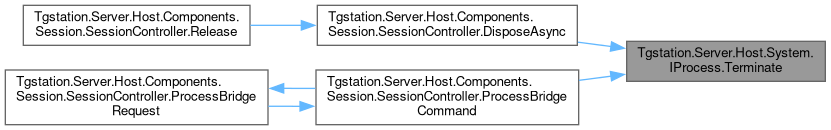
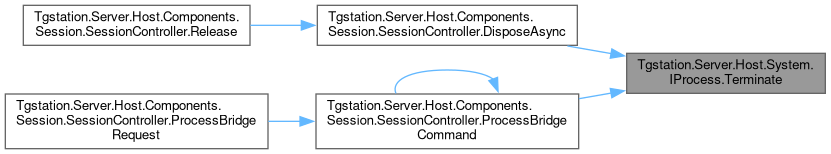
Deploy code docs to GitHub Pages for workflow run 1468
Commit: 633b628f2d9bcbed152a3bc0d39a2a22a090d2c9

diff --git a/class_tgstation_1_1_server_1_1_host_1_1_components_1_1_session_1_1_session_controller.html b/class_tgstation_1_1_server_1_1_host_1_1_components_1_1_session_1_1_session_controller.html
@@ -786,9 +786,9 @@ Here is the caller graph for this function:</div>
 <div class="dyncontent">
 <div class="center"><img src="class_tgstation_1_1_server_1_1_host_1_1_components_1_1_session_1_1_session_controller_a610c434225f1b0c912e2d845e0429eb5_icgraph.png" border="0" usemap="#aclass_tgstation_1_1_server_1_1_host_1_1_components_1_1_session_1_1_session_controller_a610c434225f1b0c912e2d845e0429eb5_icgraph" alt=""/></div>
 <map name="aclass_tgstation_1_1_server_1_1_host_1_1_components_1_1_session_1_1_session_controller_a610c434225f1b0c912e2d845e0429eb5_icgraph" id="aclass_tgstation_1_1_server_1_1_host_1_1_components_1_1_session_1_1_session_controller_a610c434225f1b0c912e2d845e0429eb5_icgraph">
-<area shape="rect" title="Log and return a BridgeResponse for a given message ." alt="" coords="627,13,868,53"/>
-<area shape="rect" href="class_tgstation_1_1_server_1_1_host_1_1_components_1_1_session_1_1_session_controller.html#a6b89533592ce90d8668f11936e8096d5" title="Handle a set of bridge parameters ." alt="" coords="316,5,579,60"/>
-<area shape="rect" href="class_tgstation_1_1_server_1_1_host_1_1_components_1_1_session_1_1_session_controller.html#a96817aa0735ddf0a72782b5f38b22cce" title="Handle a set of bridge parameters . A Task&lt;TResult&gt; resulting in the BridgeResponse for the request o..." alt="" coords="5,5,268,60"/>
+<area shape="rect" title="Log and return a BridgeResponse for a given message ." alt="" coords="627,37,868,77"/>
+<area shape="rect" href="class_tgstation_1_1_server_1_1_host_1_1_components_1_1_session_1_1_session_controller.html#a6b89533592ce90d8668f11936e8096d5" title="Handle a set of bridge parameters ." alt="" coords="316,29,579,84"/>
+<area shape="rect" href="class_tgstation_1_1_server_1_1_host_1_1_components_1_1_session_1_1_session_controller.html#a96817aa0735ddf0a72782b5f38b22cce" title="Handle a set of bridge parameters . A Task&lt;TResult&gt; resulting in the BridgeResponse for the request o..." alt="" coords="5,29,268,84"/>
 </map>
 </div>
 
@@ -1430,7 +1430,7 @@ Here is the call graph for this function:</div>
 <div class="line"><span class="lineno">  711</span>                    oldRebootTcs.SetResult();</div>
 <div class="line"><span class="lineno">  712</span>                    <span class="keywordflow">break</span>;</div>
 <div class="line"><span class="lineno">  713</span>                <span class="keywordflow">case</span> <a class="code hl_enumeration" href="namespace_tgstation_1_1_server_1_1_host_1_1_components_1_1_interop_1_1_bridge.html#a50ede689312259c6ba4fe6595f8ad91d">BridgeCommandType</a>.Chunk:</div>
-<div class="line"><span class="lineno">  714</span>                    <span class="keywordflow">return</span> await ProcessChunk&lt;BridgeParameters, BridgeResponse&gt;(<a class="code hl_function" href="class_tgstation_1_1_server_1_1_host_1_1_components_1_1_session_1_1_session_controller.html#a96817aa0735ddf0a72782b5f38b22cce">ProcessBridgeRequest</a>, <a class="code hl_function" href="class_tgstation_1_1_server_1_1_host_1_1_components_1_1_session_1_1_session_controller.html#a610c434225f1b0c912e2d845e0429eb5">BridgeError</a>, parameters.<a class="code hl_property" href="class_tgstation_1_1_server_1_1_host_1_1_components_1_1_interop_1_1_bridge_1_1_bridge_parameters.html#aa186cdd5ed50c89c0507028e53804e14">Chunk</a>, cancellationToken);</div>
+<div class="line"><span class="lineno">  714</span>                    <span class="keywordflow">return</span> await ProcessChunk&lt;BridgeParameters, BridgeResponse&gt;(<a class="code hl_function" href="class_tgstation_1_1_server_1_1_host_1_1_components_1_1_session_1_1_session_controller.html#a6b89533592ce90d8668f11936e8096d5">ProcessBridgeCommand</a>, <a class="code hl_function" href="class_tgstation_1_1_server_1_1_host_1_1_components_1_1_session_1_1_session_controller.html#a610c434225f1b0c912e2d845e0429eb5">BridgeError</a>, parameters.<a class="code hl_property" href="class_tgstation_1_1_server_1_1_host_1_1_components_1_1_interop_1_1_bridge_1_1_bridge_parameters.html#aa186cdd5ed50c89c0507028e53804e14">Chunk</a>, cancellationToken);</div>
 <div class="line"><span class="lineno">  715</span>                <span class="keywordflow">case</span> <span class="keyword">null</span>:</div>
 <div class="line"><span class="lineno">  716</span>                    <span class="keywordflow">return</span> <a class="code hl_function" href="class_tgstation_1_1_server_1_1_host_1_1_components_1_1_session_1_1_session_controller.html#a610c434225f1b0c912e2d845e0429eb5">BridgeError</a>(<span class="stringliteral">&quot;Missing commandType!&quot;</span>);</div>
 <div class="line"><span class="lineno">  717</span>                <span class="keywordflow">default</span>:</div>
@@ -1457,8 +1457,8 @@ Here is the call graph for this function:</div>
 <div class="ttc" id="aclass_tgstation_1_1_server_1_1_host_1_1_components_1_1_interop_1_1_message_content_html_afc1d8f1a06bc8ce61a1d86b168ee123f"><div class="ttname"><a href="class_tgstation_1_1_server_1_1_host_1_1_components_1_1_interop_1_1_message_content.html#afc1d8f1a06bc8ce61a1d86b168ee123f">Tgstation.Server.Host.Components.Interop.MessageContent.Text</a></div><div class="ttdeci">string Text</div><div class="ttdoc">The message string.</div><div class="ttdef"><b>Definition:</b> <a href="_message_content_8cs_source.html#l00011">MessageContent.cs:11</a></div></div>
 <div class="ttc" id="aclass_tgstation_1_1_server_1_1_host_1_1_components_1_1_session_1_1_session_controller_html_a253ee7e74591b02552eb4337c1b7fc5e"><div class="ttname"><a href="class_tgstation_1_1_server_1_1_host_1_1_components_1_1_session_1_1_session_controller.html#a253ee7e74591b02552eb4337c1b7fc5e">Tgstation.Server.Host.Components.Session.SessionController.TerminationWasRequested</a></div><div class="ttdeci">bool TerminationWasRequested</div><div class="ttdoc">If the DreamDaemon instance sent a.</div><div class="ttdef"><b>Definition:</b> <a href="_session_controller_8cs_source.html#l00058">SessionController.cs:58</a></div></div>
 <div class="ttc" id="aclass_tgstation_1_1_server_1_1_host_1_1_components_1_1_session_1_1_session_controller_html_a610c434225f1b0c912e2d845e0429eb5"><div class="ttname"><a href="class_tgstation_1_1_server_1_1_host_1_1_components_1_1_session_1_1_session_controller.html#a610c434225f1b0c912e2d845e0429eb5">Tgstation.Server.Host.Components.Session.SessionController.BridgeError</a></div><div class="ttdeci">BridgeResponse BridgeError(string message)</div><div class="ttdoc">Log and return a BridgeResponse for a given message .</div><div class="ttdef"><b>Definition:</b> <a href="_session_controller_8cs_source.html#l00729">SessionController.cs:729</a></div></div>
+<div class="ttc" id="aclass_tgstation_1_1_server_1_1_host_1_1_components_1_1_session_1_1_session_controller_html_a6b89533592ce90d8668f11936e8096d5"><div class="ttname"><a href="class_tgstation_1_1_server_1_1_host_1_1_components_1_1_session_1_1_session_controller.html#a6b89533592ce90d8668f11936e8096d5">Tgstation.Server.Host.Components.Session.SessionController.ProcessBridgeCommand</a></div><div class="ttdeci">async Task&lt; BridgeResponse &gt; ProcessBridgeCommand(BridgeParameters parameters, CancellationToken cancellationToken)</div><div class="ttdoc">Handle a set of bridge parameters .</div><div class="ttdef"><b>Definition:</b> <a href="_session_controller_8cs_source.html#l00583">SessionController.cs:583</a></div></div>
 <div class="ttc" id="aclass_tgstation_1_1_server_1_1_host_1_1_components_1_1_session_1_1_session_controller_html_a8a5265d0101bec2eb37f2f65fb4a6ef9"><div class="ttname"><a href="class_tgstation_1_1_server_1_1_host_1_1_components_1_1_session_1_1_session_controller.html#a8a5265d0101bec2eb37f2f65fb4a6ef9">Tgstation.Server.Host.Components.Session.SessionController.ClosePortOnReboot</a></div><div class="ttdeci">bool ClosePortOnReboot</div><div class="ttdoc">If the port should be rotated off when the world reboots.</div><div class="ttdef"><b>Definition:</b> <a href="_session_controller_8cs_source.html#l00055">SessionController.cs:55</a></div></div>
-<div class="ttc" id="aclass_tgstation_1_1_server_1_1_host_1_1_components_1_1_session_1_1_session_controller_html_a96817aa0735ddf0a72782b5f38b22cce"><div class="ttname"><a href="class_tgstation_1_1_server_1_1_host_1_1_components_1_1_session_1_1_session_controller.html#a96817aa0735ddf0a72782b5f38b22cce">Tgstation.Server.Host.Components.Session.SessionController.ProcessBridgeRequest</a></div><div class="ttdeci">async Task&lt; BridgeResponse &gt; ProcessBridgeRequest(BridgeParameters parameters, CancellationToken cancellationToken)</div><div class="ttdoc">Handle a set of bridge parameters . A Task&lt;TResult&gt; resulting in the BridgeResponse for the request o...</div><div class="ttdef"><b>Definition:</b> <a href="_session_controller_8cs_source.html#l00288">SessionController.cs:288</a></div></div>
 <div class="ttc" id="aclass_tgstation_1_1_server_1_1_host_1_1_components_1_1_session_1_1_session_controller_html_aa7a0a4d67b027a49d086c20e3639e5fd"><div class="ttname"><a href="class_tgstation_1_1_server_1_1_host_1_1_components_1_1_session_1_1_session_controller.html#aa7a0a4d67b027a49d086c20e3639e5fd">Tgstation.Server.Host.Components.Session.SessionController.DMApiVersion</a></div><div class="ttdeci">Version DMApiVersion</div><div class="ttdoc">The DMAPI Version.</div><div class="ttdef"><b>Definition:</b> <a href="_session_controller_8cs_source.html#l00052">SessionController.cs:52</a></div></div>
 <div class="ttc" id="aclass_tgstation_1_1_server_1_1_host_1_1_components_1_1_session_1_1_session_controller_html_acef2971a7fcc65613d54b646d2484d0b"><div class="ttname"><a href="class_tgstation_1_1_server_1_1_host_1_1_components_1_1_session_1_1_session_controller.html#acef2971a7fcc65613d54b646d2484d0b">Tgstation.Server.Host.Components.Session.SessionController.nextPort</a></div><div class="ttdeci">ushort? nextPort</div><div class="ttdoc">The port to assign DreamDaemon when it queries for it.</div><div class="ttdef"><b>Definition:</b> <a href="_session_controller_8cs_source.html#l00138">SessionController.cs:138</a></div></div>
 <div class="ttc" id="aclass_tgstation_1_1_server_1_1_host_1_1_components_1_1_session_1_1_session_controller_html_add75954615d8857ffa74ac387d2941c8"><div class="ttname"><a href="class_tgstation_1_1_server_1_1_host_1_1_components_1_1_session_1_1_session_controller.html#add75954615d8857ffa74ac387d2941c8">Tgstation.Server.Host.Components.Session.SessionController.portAssignmentTcs</a></div><div class="ttdeci">TaskCompletionSource&lt; bool &gt; portAssignmentTcs</div><div class="ttdoc">The TaskCompletionSource&lt;TResult&gt; SetPort(ushort, CancellationToken) waits on when DreamDaemon curren...</div><div class="ttdef"><b>Definition:</b> <a href="_session_controller_8cs_source.html#l00133">SessionController.cs:133</a></div></div>
@@ -1466,19 +1466,18 @@ Here is the call graph for this function:</div>
 <div class="ttc" id="anamespace_tgstation_1_1_server_1_1_api_1_1_models_html_ad4850e6b78816679602b13d63d2869b5"><div class="ttname"><a href="namespace_tgstation_1_1_server_1_1_api_1_1_models.html#ad4850e6b78816679602b13d63d2869b5">Tgstation.Server.Api.Models.DreamDaemonSecurity</a></div><div class="ttdeci">DreamDaemonSecurity</div><div class="ttdoc">DreamDaemon's security level.</div><div class="ttdef"><b>Definition:</b> <a href="_dream_daemon_security_8cs_source.html#l00006">DreamDaemonSecurity.cs:7</a></div></div>
 <div class="ttc" id="anamespace_tgstation_1_1_server_1_1_host_1_1_components_1_1_interop_1_1_bridge_html_a50ede689312259c6ba4fe6595f8ad91d"><div class="ttname"><a href="namespace_tgstation_1_1_server_1_1_host_1_1_components_1_1_interop_1_1_bridge.html#a50ede689312259c6ba4fe6595f8ad91d">Tgstation.Server.Host.Components.Interop.Bridge.BridgeCommandType</a></div><div class="ttdeci">BridgeCommandType</div><div class="ttdoc">Represents the BridgeParameters.CommandType.</div><div class="ttdef"><b>Definition:</b> <a href="_bridge_command_type_8cs_source.html#l00006">BridgeCommandType.cs:7</a></div></div>
 </div><!-- fragment -->
-<p class="reference">References <a class="el" href="_runtime_information_8cs_source.html#l00030">Tgstation.Server.Host.Components.Interop.Bridge.RuntimeInformation.ApiValidateOnly</a>, <a class="el" href="_session_controller_8cs_source.html#l00163">Tgstation.Server.Host.Components.Session.SessionController.apiValidationStatus</a>, <a class="el" href="_session_controller_8cs_source.html#l00729">Tgstation.Server.Host.Components.Session.SessionController.BridgeError()</a>, <a class="el" href="_chat_message_8cs_source.html#l00013">Tgstation.Server.Host.Components.Interop.ChatMessage.ChannelIds</a>, <a class="el" href="_session_controller_8cs_source.html#l00123">Tgstation.Server.Host.Components.Session.SessionController.chat</a>, <a class="el" href="_bridge_parameters_8cs_source.html#l00042">Tgstation.Server.Host.Components.Interop.Bridge.BridgeParameters.ChatMessage</a>, <a class="el" href="_session_controller_8cs_source.html#l00118">Tgstation.Server.Host.Components.Session.SessionController.chatTrackingContext</a>, <a class="el" href="_bridge_parameters_8cs_source.html#l00047">Tgstation.Server.Host.Components.Interop.Bridge.BridgeParameters.Chunk</a>, <a class="el" href="_session_controller_8cs_source.html#l00055">Tgstation.Server.Host.Components.Session.SessionController.ClosePortOnReboot</a>, <a class="el" href="_bridge_parameters_8cs_source.html#l00017">Tgstation.Server.Host.Components.Interop.Bridge.BridgeParameters.CommandType</a>, <a class="el" href="_bridge_parameters_8cs_source.html#l00022">Tgstation.Server.Host.Components.Interop.Bridge.BridgeParameters.CurrentPort</a>, <a class="el" href="_bridge_parameters_8cs_source.html#l00032">Tgstation.Server.Host.Components.Interop.Bridge.BridgeParameters.CustomCommands</a>, <a class="el" href="_session_controller_8cs_source.html#l00052">Tgstation.Server.Host.Components.Session.SessionController.DMApiVersion</a>, <a class="el" href="_components_2_session_2_reattach_information_8cs_source.html#l00018">Tgstation.Server.Host.Components.Session.ReattachInformation.Dmb</a>, <a class="el" href="_runtime_information_8cs_source.html#l00035">Tgstation.Server.Host.Components.Interop.Bridge.RuntimeInformation.InstanceName</a>, <a class="el" href="_d_m_api_constants_8cs_source.html#l00055">Tgstation.Server.Host.Components.Interop.DMApiConstants.InteropVersion</a>, <a class="el" href="_chunker_8cs_source.html#l00045">Tgstation.Server.Host.Components.Interop.Chunker.Logger</a>, <a class="el" href="_bridge_parameters_8cs_source.html#l00037">Tgstation.Server.Host.Components.Interop.Bridge.BridgeParameters.MinimumSecurityLevel</a>, <a class="el" href="_session_controller_8cs_source.html#l00138">Tgstation.Server.Host.Components.Session.SessionController.nextPort</a>, <a class="el" href="_session_controller_8cs_source.html#l00133">Tgstation.Server.Host.Components.Session.SessionController.portAssignmentTcs</a>, <a class="el" href="_session_controller_8cs_source.html#l00153">Tgstation.Server.Host.Components.Session.SessionController.portClosedForReboot</a>, <a class="el" href="_session_controller_8cs_source.html#l00148">Tgstation.Server.Host.Components.Session.SessionController.primeTcs</a>, <a class="el" href="_session_controller_8cs_source.html#l00108">Tgstation.Server.Host.Components.Session.SessionController.process</a>, <a class="el" href="_session_controller_8cs_source.html#l00288">Tgstation.Server.Host.Components.Session.SessionController.ProcessBridgeRequest()</a>, <a class="el" href="interface_tgstation_1_1_server_1_1_host_1_1_components_1_1_chat_1_1_i_chat_manager.html#af9226f864c0c82403eab7ac5f8e43002">Tgstation.Server.Host.Components.Chat.IChatManager.QueueMessage()</a>, <a class="el" href="_session_controller_8cs_source.html#l00143">Tgstation.Server.Host.Components.Session.SessionController.rebootTcs</a>, <a class="el" href="_components_2_session_2_reattach_information_8cs_source.html#l00028">Tgstation.Server.Host.Components.Session.ReattachInformation.RuntimeInformation</a>, <a class="el" href="_runtime_information_8cs_source.html#l00045">Tgstation.Server.Host.Components.Interop.Bridge.RuntimeInformation.SecurityLevel</a>, <a class="el" href="_runtime_information_8cs_source.html#l00025">Tgstation.Server.Host.Components.Interop.Bridge.RuntimeInformation.ServerPort</a>, <a class="el" href="_runtime_information_8cs_source.html#l00020">Tgstation.Server.Host.Components.Interop.Bridge.RuntimeInformation.ServerVersion</a>, <a class="el" href="_session_controller_8cs_source.html#l00128">Tgstation.Server.Host.Components.Session.SessionController.synchronizationLock</a>, <a class="el" href="interface_tgstation_1_1_server_1_1_host_1_1_system_1_1_i_process.html#a840da56ea51a4bbbc6b21667cc6355a2">Tgstation.Server.Host.System.IProcess.Terminate()</a>, <a class="el" href="_session_controller_8cs_source.html#l00058">Tgstation.Server.Host.Components.Session.SessionController.TerminationWasRequested</a>, <a class="el" href="_message_content_8cs_source.html#l00011">Tgstation.Server.Host.Components.Interop.MessageContent.Text</a>, <a class="el" href="_bridge_parameters_8cs_source.html#l00027">Tgstation.Server.Host.Components.Interop.Bridge.BridgeParameters.Version</a>, and <a class="el" href="_runtime_information_8cs_source.html#l00050">Tgstation.Server.Host.Components.Interop.Bridge.RuntimeInformation.Visibility</a>.</p>
+<p class="reference">References <a class="el" href="_runtime_information_8cs_source.html#l00030">Tgstation.Server.Host.Components.Interop.Bridge.RuntimeInformation.ApiValidateOnly</a>, <a class="el" href="_session_controller_8cs_source.html#l00163">Tgstation.Server.Host.Components.Session.SessionController.apiValidationStatus</a>, <a class="el" href="_session_controller_8cs_source.html#l00729">Tgstation.Server.Host.Components.Session.SessionController.BridgeError()</a>, <a class="el" href="_chat_message_8cs_source.html#l00013">Tgstation.Server.Host.Components.Interop.ChatMessage.ChannelIds</a>, <a class="el" href="_session_controller_8cs_source.html#l00123">Tgstation.Server.Host.Components.Session.SessionController.chat</a>, <a class="el" href="_bridge_parameters_8cs_source.html#l00042">Tgstation.Server.Host.Components.Interop.Bridge.BridgeParameters.ChatMessage</a>, <a class="el" href="_session_controller_8cs_source.html#l00118">Tgstation.Server.Host.Components.Session.SessionController.chatTrackingContext</a>, <a class="el" href="_bridge_parameters_8cs_source.html#l00047">Tgstation.Server.Host.Components.Interop.Bridge.BridgeParameters.Chunk</a>, <a class="el" href="_session_controller_8cs_source.html#l00055">Tgstation.Server.Host.Components.Session.SessionController.ClosePortOnReboot</a>, <a class="el" href="_bridge_parameters_8cs_source.html#l00017">Tgstation.Server.Host.Components.Interop.Bridge.BridgeParameters.CommandType</a>, <a class="el" href="_bridge_parameters_8cs_source.html#l00022">Tgstation.Server.Host.Components.Interop.Bridge.BridgeParameters.CurrentPort</a>, <a class="el" href="_bridge_parameters_8cs_source.html#l00032">Tgstation.Server.Host.Components.Interop.Bridge.BridgeParameters.CustomCommands</a>, <a class="el" href="_session_controller_8cs_source.html#l00052">Tgstation.Server.Host.Components.Session.SessionController.DMApiVersion</a>, <a class="el" href="_components_2_session_2_reattach_information_8cs_source.html#l00018">Tgstation.Server.Host.Components.Session.ReattachInformation.Dmb</a>, <a class="el" href="_runtime_information_8cs_source.html#l00035">Tgstation.Server.Host.Components.Interop.Bridge.RuntimeInformation.InstanceName</a>, <a class="el" href="_d_m_api_constants_8cs_source.html#l00055">Tgstation.Server.Host.Components.Interop.DMApiConstants.InteropVersion</a>, <a class="el" href="_chunker_8cs_source.html#l00045">Tgstation.Server.Host.Components.Interop.Chunker.Logger</a>, <a class="el" href="_bridge_parameters_8cs_source.html#l00037">Tgstation.Server.Host.Components.Interop.Bridge.BridgeParameters.MinimumSecurityLevel</a>, <a class="el" href="_session_controller_8cs_source.html#l00138">Tgstation.Server.Host.Components.Session.SessionController.nextPort</a>, <a class="el" href="_session_controller_8cs_source.html#l00133">Tgstation.Server.Host.Components.Session.SessionController.portAssignmentTcs</a>, <a class="el" href="_session_controller_8cs_source.html#l00153">Tgstation.Server.Host.Components.Session.SessionController.portClosedForReboot</a>, <a class="el" href="_session_controller_8cs_source.html#l00148">Tgstation.Server.Host.Components.Session.SessionController.primeTcs</a>, <a class="el" href="_session_controller_8cs_source.html#l00108">Tgstation.Server.Host.Components.Session.SessionController.process</a>, <a class="el" href="_session_controller_8cs_source.html#l00583">Tgstation.Server.Host.Components.Session.SessionController.ProcessBridgeCommand()</a>, <a class="el" href="interface_tgstation_1_1_server_1_1_host_1_1_components_1_1_chat_1_1_i_chat_manager.html#af9226f864c0c82403eab7ac5f8e43002">Tgstation.Server.Host.Components.Chat.IChatManager.QueueMessage()</a>, <a class="el" href="_session_controller_8cs_source.html#l00143">Tgstation.Server.Host.Components.Session.SessionController.rebootTcs</a>, <a class="el" href="_components_2_session_2_reattach_information_8cs_source.html#l00028">Tgstation.Server.Host.Components.Session.ReattachInformation.RuntimeInformation</a>, <a class="el" href="_runtime_information_8cs_source.html#l00045">Tgstation.Server.Host.Components.Interop.Bridge.RuntimeInformation.SecurityLevel</a>, <a class="el" href="_runtime_information_8cs_source.html#l00025">Tgstation.Server.Host.Components.Interop.Bridge.RuntimeInformation.ServerPort</a>, <a class="el" href="_runtime_information_8cs_source.html#l00020">Tgstation.Server.Host.Components.Interop.Bridge.RuntimeInformation.ServerVersion</a>, <a class="el" href="_session_controller_8cs_source.html#l00128">Tgstation.Server.Host.Components.Session.SessionController.synchronizationLock</a>, <a class="el" href="interface_tgstation_1_1_server_1_1_host_1_1_system_1_1_i_process.html#a840da56ea51a4bbbc6b21667cc6355a2">Tgstation.Server.Host.System.IProcess.Terminate()</a>, <a class="el" href="_session_controller_8cs_source.html#l00058">Tgstation.Server.Host.Components.Session.SessionController.TerminationWasRequested</a>, <a class="el" href="_message_content_8cs_source.html#l00011">Tgstation.Server.Host.Components.Interop.MessageContent.Text</a>, <a class="el" href="_bridge_parameters_8cs_source.html#l00027">Tgstation.Server.Host.Components.Interop.Bridge.BridgeParameters.Version</a>, and <a class="el" href="_runtime_information_8cs_source.html#l00050">Tgstation.Server.Host.Components.Interop.Bridge.RuntimeInformation.Visibility</a>.</p>
 
-<p class="reference">Referenced by <a class="el" href="_session_controller_8cs_source.html#l00288">Tgstation.Server.Host.Components.Session.SessionController.ProcessBridgeRequest()</a>.</p>
+<p class="reference">Referenced by <a class="el" href="_session_controller_8cs_source.html#l00583">Tgstation.Server.Host.Components.Session.SessionController.ProcessBridgeCommand()</a>, and <a class="el" href="_session_controller_8cs_source.html#l00288">Tgstation.Server.Host.Components.Session.SessionController.ProcessBridgeRequest()</a>.</p>
 <div class="dynheader">
 Here is the call graph for this function:</div>
 <div class="dyncontent">
 <div class="center"><img src="class_tgstation_1_1_server_1_1_host_1_1_components_1_1_session_1_1_session_controller_a6b89533592ce90d8668f11936e8096d5_cgraph.png" border="0" usemap="#aclass_tgstation_1_1_server_1_1_host_1_1_components_1_1_session_1_1_session_controller_a6b89533592ce90d8668f11936e8096d5_cgraph" alt=""/></div>
 <map name="aclass_tgstation_1_1_server_1_1_host_1_1_components_1_1_session_1_1_session_controller_a6b89533592ce90d8668f11936e8096d5_cgraph" id="aclass_tgstation_1_1_server_1_1_host_1_1_components_1_1_session_1_1_session_controller_a6b89533592ce90d8668f11936e8096d5_cgraph">
-<area shape="rect" title="Handle a set of bridge parameters ." alt="" coords="5,70,268,125"/>
-<area shape="rect" href="class_tgstation_1_1_server_1_1_host_1_1_components_1_1_session_1_1_session_controller.html#a610c434225f1b0c912e2d845e0429eb5" title="Log and return a BridgeResponse for a given message ." alt="" coords="327,5,568,45"/>
-<area shape="rect" href="class_tgstation_1_1_server_1_1_host_1_1_components_1_1_session_1_1_session_controller.html#a96817aa0735ddf0a72782b5f38b22cce" title="Handle a set of bridge parameters . A Task&lt;TResult&gt; resulting in the BridgeResponse for the request o..." alt="" coords="316,70,579,125"/>
-<area shape="rect" href="interface_tgstation_1_1_server_1_1_host_1_1_components_1_1_chat_1_1_i_chat_manager.html#af9226f864c0c82403eab7ac5f8e43002" title="Queue a chat message &#160;to a given set of channelIds ." alt="" coords="334,149,561,189"/>
-<area shape="rect" href="interface_tgstation_1_1_server_1_1_host_1_1_system_1_1_i_process.html#a840da56ea51a4bbbc6b21667cc6355a2" title="Asycnhronously terminates the process." alt="" coords="348,213,547,253"/>
+<area shape="rect" title="Handle a set of bridge parameters ." alt="" coords="5,62,268,117"/>
+<area shape="rect" href="class_tgstation_1_1_server_1_1_host_1_1_components_1_1_session_1_1_session_controller.html#a610c434225f1b0c912e2d845e0429eb5" title="Log and return a BridgeResponse for a given message ." alt="" coords="316,5,557,45"/>
+<area shape="rect" href="interface_tgstation_1_1_server_1_1_host_1_1_components_1_1_chat_1_1_i_chat_manager.html#af9226f864c0c82403eab7ac5f8e43002" title="Queue a chat message &#160;to a given set of channelIds ." alt="" coords="323,69,550,109"/>
+<area shape="rect" href="interface_tgstation_1_1_server_1_1_host_1_1_system_1_1_i_process.html#a840da56ea51a4bbbc6b21667cc6355a2" title="Asycnhronously terminates the process." alt="" coords="337,133,536,173"/>
 </map>
 </div>
 <div class="dynheader">
@@ -1486,8 +1485,8 @@ Here is the caller graph for this function:</div>
 <div class="dyncontent">
 <div class="center"><img src="class_tgstation_1_1_server_1_1_host_1_1_components_1_1_session_1_1_session_controller_a6b89533592ce90d8668f11936e8096d5_icgraph.png" border="0" usemap="#aclass_tgstation_1_1_server_1_1_host_1_1_components_1_1_session_1_1_session_controller_a6b89533592ce90d8668f11936e8096d5_icgraph" alt=""/></div>
 <map name="aclass_tgstation_1_1_server_1_1_host_1_1_components_1_1_session_1_1_session_controller_a6b89533592ce90d8668f11936e8096d5_icgraph" id="aclass_tgstation_1_1_server_1_1_host_1_1_components_1_1_session_1_1_session_controller_a6b89533592ce90d8668f11936e8096d5_icgraph">
-<area shape="rect" title="Handle a set of bridge parameters ." alt="" coords="316,5,579,60"/>
-<area shape="rect" href="class_tgstation_1_1_server_1_1_host_1_1_components_1_1_session_1_1_session_controller.html#a96817aa0735ddf0a72782b5f38b22cce" title="Handle a set of bridge parameters . A Task&lt;TResult&gt; resulting in the BridgeResponse for the request o..." alt="" coords="5,5,268,60"/>
+<area shape="rect" title="Handle a set of bridge parameters ." alt="" coords="316,29,579,84"/>
+<area shape="rect" href="class_tgstation_1_1_server_1_1_host_1_1_components_1_1_session_1_1_session_controller.html#a96817aa0735ddf0a72782b5f38b22cce" title="Handle a set of bridge parameters . A Task&lt;TResult&gt; resulting in the BridgeResponse for the request o..." alt="" coords="5,29,268,84"/>
 </map>
 </div>
 
@@ -1550,11 +1549,8 @@ Here is the caller graph for this function:</div>
 <div class="line"><span class="lineno">  304</span>                }</div>
 <div class="line"><span class="lineno">  305</span>            }</div>
 <div class="line"><span class="lineno">  306</span>        }</div>
-<div class="ttc" id="aclass_tgstation_1_1_server_1_1_host_1_1_components_1_1_session_1_1_session_controller_html_a6b89533592ce90d8668f11936e8096d5"><div class="ttname"><a href="class_tgstation_1_1_server_1_1_host_1_1_components_1_1_session_1_1_session_controller.html#a6b89533592ce90d8668f11936e8096d5">Tgstation.Server.Host.Components.Session.SessionController.ProcessBridgeCommand</a></div><div class="ttdeci">async Task&lt; BridgeResponse &gt; ProcessBridgeCommand(BridgeParameters parameters, CancellationToken cancellationToken)</div><div class="ttdoc">Handle a set of bridge parameters .</div><div class="ttdef"><b>Definition:</b> <a href="_session_controller_8cs_source.html#l00583">SessionController.cs:583</a></div></div>
 </div><!-- fragment -->
 <p class="reference">References <a class="el" href="_session_controller_8cs_source.html#l00083">Tgstation.Server.Host.Components.Session.SessionController.initialBridgeRequestTcs</a>, <a class="el" href="_chunker_8cs_source.html#l00045">Tgstation.Server.Host.Components.Interop.Chunker.Logger</a>, <a class="el" href="_session_controller_8cs_source.html#l00088">Tgstation.Server.Host.Components.Session.SessionController.metadata</a>, and <a class="el" href="_session_controller_8cs_source.html#l00583">Tgstation.Server.Host.Components.Session.SessionController.ProcessBridgeCommand()</a>.</p>
-
-<p class="reference">Referenced by <a class="el" href="_session_controller_8cs_source.html#l00583">Tgstation.Server.Host.Components.Session.SessionController.ProcessBridgeCommand()</a>.</p>
 <div class="dynheader">
 Here is the call graph for this function:</div>
 <div class="dyncontent">
@@ -1565,15 +1561,6 @@ Here is the call graph for this function:</div>
 <area shape="rect" href="class_tgstation_1_1_server_1_1_host_1_1_components_1_1_session_1_1_session_controller.html#a610c434225f1b0c912e2d845e0429eb5" title="Log and return a BridgeResponse for a given message ." alt="" coords="627,5,868,45"/>
 <area shape="rect" href="interface_tgstation_1_1_server_1_1_host_1_1_components_1_1_chat_1_1_i_chat_manager.html#af9226f864c0c82403eab7ac5f8e43002" title="Queue a chat message &#160;to a given set of channelIds ." alt="" coords="634,69,861,109"/>
 <area shape="rect" href="interface_tgstation_1_1_server_1_1_host_1_1_system_1_1_i_process.html#a840da56ea51a4bbbc6b21667cc6355a2" title="Asycnhronously terminates the process." alt="" coords="648,133,847,173"/>
-</map>
-</div>
-<div class="dynheader">
-Here is the caller graph for this function:</div>
-<div class="dyncontent">
-<div class="center"><img src="class_tgstation_1_1_server_1_1_host_1_1_components_1_1_session_1_1_session_controller_a96817aa0735ddf0a72782b5f38b22cce_icgraph.png" border="0" usemap="#aclass_tgstation_1_1_server_1_1_host_1_1_components_1_1_session_1_1_session_controller_a96817aa0735ddf0a72782b5f38b22cce_icgraph" alt=""/></div>
-<map name="aclass_tgstation_1_1_server_1_1_host_1_1_components_1_1_session_1_1_session_controller_a96817aa0735ddf0a72782b5f38b22cce_icgraph" id="aclass_tgstation_1_1_server_1_1_host_1_1_components_1_1_session_1_1_session_controller_a96817aa0735ddf0a72782b5f38b22cce_icgraph">
-<area shape="rect" title="Handle a set of bridge parameters . A Task&lt;TResult&gt; resulting in the BridgeResponse for the request o..." alt="" coords="316,5,579,60"/>
-<area shape="rect" href="class_tgstation_1_1_server_1_1_host_1_1_components_1_1_session_1_1_session_controller.html#a6b89533592ce90d8668f11936e8096d5" title="Handle a set of bridge parameters ." alt="" coords="5,5,268,60"/>
 </map>
 </div>
 

diff --git a/interface_tgstation_1_1_server_1_1_host_1_1_components_1_1_chat_1_1_i_chat_manager.html b/interface_tgstation_1_1_server_1_1_host_1_1_components_1_1_chat_1_1_i_chat_manager.html
@@ -428,8 +428,8 @@ Here is the caller graph for this function:</div>
 <div class="center"><img src="interface_tgstation_1_1_server_1_1_host_1_1_components_1_1_chat_1_1_i_chat_manager_af9226f864c0c82403eab7ac5f8e43002_icgraph.png" border="0" usemap="#ainterface_tgstation_1_1_server_1_1_host_1_1_components_1_1_chat_1_1_i_chat_manager_af9226f864c0c82403eab7ac5f8e43002_icgraph" alt=""/></div>
 <map name="ainterface_tgstation_1_1_server_1_1_host_1_1_components_1_1_chat_1_1_i_chat_manager_af9226f864c0c82403eab7ac5f8e43002_icgraph" id="ainterface_tgstation_1_1_server_1_1_host_1_1_components_1_1_chat_1_1_i_chat_manager_af9226f864c0c82403eab7ac5f8e43002_icgraph">
 <area shape="rect" title="Queue a chat message &#160;to a given set of channelIds ." alt="" coords="1703,195,1929,235"/>
-<area shape="rect" href="class_tgstation_1_1_server_1_1_host_1_1_components_1_1_watchdog_1_1_watchdog_base.html#a78a34174a09d1726b92d2bc70182b657" title="Handle any TopicResponse.ChatResponses in a given topic result ." alt="" coords="1348,159,1655,199"/>
-<area shape="rect" href="class_tgstation_1_1_server_1_1_host_1_1_components_1_1_session_1_1_session_controller.html#a6b89533592ce90d8668f11936e8096d5" title="Handle a set of bridge parameters ." alt="" coords="1370,223,1633,278"/>
+<area shape="rect" href="class_tgstation_1_1_server_1_1_host_1_1_components_1_1_watchdog_1_1_watchdog_base.html#a78a34174a09d1726b92d2bc70182b657" title="Handle any TopicResponse.ChatResponses in a given topic result ." alt="" coords="1348,147,1655,187"/>
+<area shape="rect" href="class_tgstation_1_1_server_1_1_host_1_1_components_1_1_session_1_1_session_controller.html#a6b89533592ce90d8668f11936e8096d5" title="Handle a set of bridge parameters ." alt="" coords="1370,235,1633,290"/>
 <area shape="rect" href="class_tgstation_1_1_server_1_1_host_1_1_components_1_1_watchdog_1_1_watchdog_base.html#a75d69d7ce07458b0d83124a1315c1c37" title="Handle a chat command. A Task&lt;TResult&gt; resulting in the MessageContent text to send back." alt="" coords="999,95,1300,135"/>
 <area shape="rect" href="class_tgstation_1_1_server_1_1_host_1_1_components_1_1_watchdog_1_1_watchdog_base.html#a1b043f3ab25e84bc675dd5455cbf3f52" title="Handle a given eventType . A Task representing the running operation." alt="" coords="1025,159,1273,199"/>
 <area shape="rect" href="class_tgstation_1_1_server_1_1_host_1_1_components_1_1_watchdog_1_1_basic_watchdog.html#a7f6314f04d25300b61c73a5fdede8cfb" title="Handles the actions to take when the monitor has to &quot;wake up&quot;. A Task&lt;TResult&gt; resulting in the Monit..." alt="" coords="643,95,951,135"/>
@@ -443,7 +443,7 @@ Here is the caller graph for this function:</div>
 <area shape="rect" href="class_tgstation_1_1_server_1_1_host_1_1_components_1_1_watchdog_1_1_basic_watchdog.html#a3b874bb53e907a576a4b88122083c6c3" title="Cancels pending graceful actions. A Task representing the running operation." alt="" coords="5,248,288,288"/>
 <area shape="rect" href="class_tgstation_1_1_server_1_1_host_1_1_components_1_1_watchdog_1_1_watchdog_base.html#a49a9acdffdc9e7cd176f803b23e97ff4" title="Stops the watchdog. A Task representing the running operation." alt="" coords="349,312,581,352"/>
 <area shape="rect" href="class_tgstation_1_1_server_1_1_host_1_1_components_1_1_watchdog_1_1_watchdog_base.html#a0e4642f1b29fff6e830c654384f8813f" title="Handle a restart of the server. A Task representing the running operation." alt="" coords="18,312,275,352"/>
-<area shape="rect" href="class_tgstation_1_1_server_1_1_host_1_1_components_1_1_session_1_1_session_controller.html#a96817aa0735ddf0a72782b5f38b22cce" title="Handle a set of bridge parameters . A Task&lt;TResult&gt; resulting in the BridgeResponse for the request o..." alt="" coords="1018,223,1281,278"/>
+<area shape="rect" href="class_tgstation_1_1_server_1_1_host_1_1_components_1_1_session_1_1_session_controller.html#a96817aa0735ddf0a72782b5f38b22cce" title="Handle a set of bridge parameters . A Task&lt;TResult&gt; resulting in the BridgeResponse for the request o..." alt="" coords="1018,235,1281,290"/>
 </map>
 </div>
 

diff --git a/_session_controller_8cs_source.html b/_session_controller_8cs_source.html
@@ -671,7 +671,7 @@ $(function() {
 <div class="line"><a id="l00711" name="l00711"></a><span class="lineno">  711</span>                    oldRebootTcs.SetResult();</div>
 <div class="line"><a id="l00712" name="l00712"></a><span class="lineno">  712</span>                    <span class="keywordflow">break</span>;</div>
 <div class="line"><a id="l00713" name="l00713"></a><span class="lineno">  713</span>                <span class="keywordflow">case</span> <a class="code hl_enumeration" href="namespace_tgstation_1_1_server_1_1_host_1_1_components_1_1_interop_1_1_bridge.html#a50ede689312259c6ba4fe6595f8ad91d">BridgeCommandType</a>.Chunk:</div>
-<div class="line"><a id="l00714" name="l00714"></a><span class="lineno">  714</span>                    <span class="keywordflow">return</span> await ProcessChunk&lt;BridgeParameters, BridgeResponse&gt;(<a class="code hl_function" href="class_tgstation_1_1_server_1_1_host_1_1_components_1_1_session_1_1_session_controller.html#a96817aa0735ddf0a72782b5f38b22cce">ProcessBridgeRequest</a>, <a class="code hl_function" href="class_tgstation_1_1_server_1_1_host_1_1_components_1_1_session_1_1_session_controller.html#a610c434225f1b0c912e2d845e0429eb5">BridgeError</a>, parameters.<a class="code hl_property" href="class_tgstation_1_1_server_1_1_host_1_1_components_1_1_interop_1_1_bridge_1_1_bridge_parameters.html#aa186cdd5ed50c89c0507028e53804e14">Chunk</a>, cancellationToken);</div>
+<div class="line"><a id="l00714" name="l00714"></a><span class="lineno">  714</span>                    <span class="keywordflow">return</span> await ProcessChunk&lt;BridgeParameters, BridgeResponse&gt;(<a class="code hl_function" href="class_tgstation_1_1_server_1_1_host_1_1_components_1_1_session_1_1_session_controller.html#a6b89533592ce90d8668f11936e8096d5">ProcessBridgeCommand</a>, <a class="code hl_function" href="class_tgstation_1_1_server_1_1_host_1_1_components_1_1_session_1_1_session_controller.html#a610c434225f1b0c912e2d845e0429eb5">BridgeError</a>, parameters.<a class="code hl_property" href="class_tgstation_1_1_server_1_1_host_1_1_components_1_1_interop_1_1_bridge_1_1_bridge_parameters.html#aa186cdd5ed50c89c0507028e53804e14">Chunk</a>, cancellationToken);</div>
 <div class="line"><a id="l00715" name="l00715"></a><span class="lineno">  715</span>                <span class="keywordflow">case</span> <span class="keyword">null</span>:</div>
 <div class="line"><a id="l00716" name="l00716"></a><span class="lineno">  716</span>                    <span class="keywordflow">return</span> <a class="code hl_function" href="class_tgstation_1_1_server_1_1_host_1_1_components_1_1_session_1_1_session_controller.html#a610c434225f1b0c912e2d845e0429eb5">BridgeError</a>(<span class="stringliteral">&quot;Missing commandType!&quot;</span>);</div>
 <div class="line"><a id="l00717" name="l00717"></a><span class="lineno">  717</span>                <span class="keywordflow">default</span>:</div>

diff --git a/interface_tgstation_1_1_server_1_1_host_1_1_system_1_1_i_process.html b/interface_tgstation_1_1_server_1_1_host_1_1_system_1_1_i_process.html
@@ -260,11 +260,11 @@ Here is the caller graph for this function:</div>
 <div class="dyncontent">
 <div class="center"><img src="interface_tgstation_1_1_server_1_1_host_1_1_system_1_1_i_process_a840da56ea51a4bbbc6b21667cc6355a2_icgraph.png" border="0" usemap="#ainterface_tgstation_1_1_server_1_1_host_1_1_system_1_1_i_process_a840da56ea51a4bbbc6b21667cc6355a2_icgraph" alt=""/></div>
 <map name="ainterface_tgstation_1_1_server_1_1_host_1_1_system_1_1_i_process_a840da56ea51a4bbbc6b21667cc6355a2_icgraph" id="ainterface_tgstation_1_1_server_1_1_host_1_1_system_1_1_i_process_a840da56ea51a4bbbc6b21667cc6355a2_icgraph">
-<area shape="rect" title="Asycnhronously terminates the process." alt="" coords="627,41,825,81"/>
+<area shape="rect" title="Asycnhronously terminates the process." alt="" coords="627,53,825,93"/>
 <area shape="rect" href="class_tgstation_1_1_server_1_1_host_1_1_components_1_1_session_1_1_session_controller.html#a0a6612e49a14544cad75292fba3798c1" title=" " alt="" coords="317,5,577,45"/>
-<area shape="rect" href="class_tgstation_1_1_server_1_1_host_1_1_components_1_1_session_1_1_session_controller.html#a6b89533592ce90d8668f11936e8096d5" title="Handle a set of bridge parameters ." alt="" coords="316,70,579,125"/>
+<area shape="rect" href="class_tgstation_1_1_server_1_1_host_1_1_components_1_1_session_1_1_session_controller.html#a6b89533592ce90d8668f11936e8096d5" title="Handle a set of bridge parameters ." alt="" coords="316,94,579,149"/>
 <area shape="rect" href="class_tgstation_1_1_server_1_1_host_1_1_components_1_1_session_1_1_session_controller.html#a56746b962570ee4b349380f63965dc0d" title="Releases the IProcess without terminating it. Also calls IDisposable.Dispose. A Task representing the..." alt="" coords="23,5,250,45"/>
-<area shape="rect" href="class_tgstation_1_1_server_1_1_host_1_1_components_1_1_session_1_1_session_controller.html#a96817aa0735ddf0a72782b5f38b22cce" title="Handle a set of bridge parameters . A Task&lt;TResult&gt; resulting in the BridgeResponse for the request o..." alt="" coords="5,70,268,125"/>
+<area shape="rect" href="class_tgstation_1_1_server_1_1_host_1_1_components_1_1_session_1_1_session_controller.html#a96817aa0735ddf0a72782b5f38b22cce" title="Handle a set of bridge parameters . A Task&lt;TResult&gt; resulting in the BridgeResponse for the request o..." alt="" coords="5,94,268,149"/>
 </map>
 </div>
 
